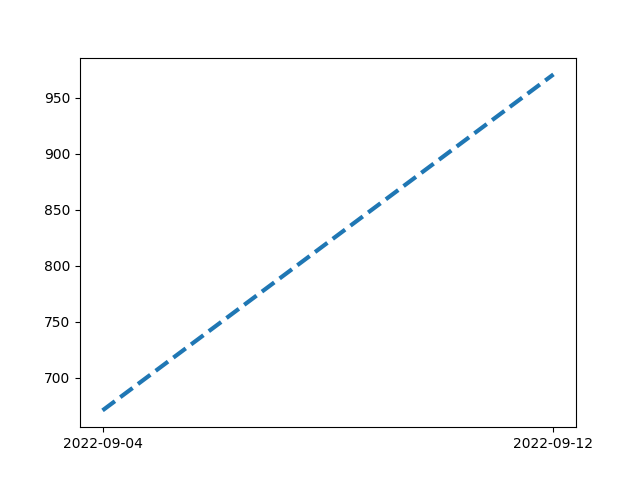
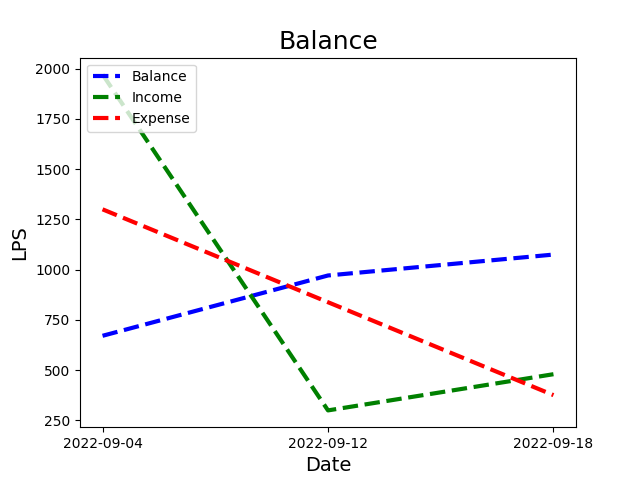
graph fixed and history updated

diff --git a/main.py b/main.py
@@ -1,4 +1,3 @@
-from cmath import exp
 from functions import Functions
 import discord
 import os
@@ -10,6 +9,8 @@ client = discord.Client(intents=discord.Intents.default())
 
 @client.event
 async def on_message(message):
+
+    user = message.author.id
 
     if message.author == client.user:
         return
@@ -28,7 +29,6 @@ async def on_message(message):
 
         msg = message.content.split(' ')
 
-        user = message.author.id
         income = msg[1]
 
         description = msg[2]
@@ -44,7 +44,6 @@ async def on_message(message):
         
         msg = message.content.split(' ')
 
-        user = message.author.id
         expense = msg[1]
         description = msg[2]
 
@@ -54,25 +53,20 @@ async def on_message(message):
 
         await message.channel.send(dbMessage)
 
+
     elif message.content.startswith('!balance'):
 
-        user = message.author.id
-
-        dbMessage = func.getBalance(user)
+        func.getBalance(user)
 
         await message.channel.send(dbMessage)
 
-    elif message.content.startswith('!graph'):
 
-        user = message.author.id
+    elif message.content.startswith('!graph'):
 
         dbMessage = func.getGraph(user)
 
         await message.channel.send(file=discord.File('plot.png'))
 
-    elif message.content.startswith('!help'):
-
-        await message.channel.send('!create - Create a new account\n!income [amount] [description] - Add income\n!expense [amount] [description] - Add expense\n!balance - Get your balance\n!history - Get your history\n!graph - Get your graph')
 
     elif message.content.startswith('!delete'):
 
@@ -83,5 +77,28 @@ async def on_message(message):
             await message.channel.send('Account deleted')
         else:
             await message.channel.send('Account not deleted')
+
+
+    elif message.content.startswith('!help'):
+
+        #Create an embed message
+
+        embed = discord.Embed(title="Help", description="List of commands", color=0x00ff00)
+
+        embed.add_field(name="!create", value="Create a new account", inline=False)
+
+        embed.add_field(name="!delete", value="Delete an account", inline=False)
+
+        embed.add_field(name="!income", value="Add an income", inline=False)
+
+        embed.add_field(name="!expense", value="Add an expense", inline=False)
+
+        embed.add_field(name="!balance", value="Get your balance", inline=False)
+
+        embed.add_field(name="!graph", value="Get a graph of your expenses", inline=False)
+
+        embed.add_field(name="!help", value="Get a list of commands", inline=False)
+
+        await message.channel.send(embed=embed)
 
 client.run(DISCORD_TOKEN)

diff --git a/database_conn.py b/database_conn.py
@@ -1,3 +1,4 @@
+from re import sub
 import pymysql
 
 class DataBase:
@@ -52,6 +53,9 @@ class DataBase:
         return
 
     def get_mensual_balance(self, username):
+
+        #Get the total balance
+
         sql = "SELECT `income`, `expense`, date FROM `%s`" % username
         self.cursor.execute(sql)
         result = self.cursor.fetchall()
@@ -76,11 +80,71 @@ class DataBase:
         incomeAp.append(subT)
         date.append(lastDate)
 
-        data = [incomeAp, date]
-        print(incomeAp)
-        print(date)
+        balance = [incomeAp, date]
 
-        return data
+        #Get the total income
+
+        sql = "SELECT `income`, date FROM `%s` WHERE expense = '0'" % username
+        self.cursor.execute(sql)
+        result = self.cursor.fetchall()
+
+        incomeT = []
+        dateIncome = []
+        subT = 0
+        lastDate = ""
+
+        for long in result:
+            dateSplit = str(long[1]).split(" ")
+
+            if lastDate == "":
+                lastDate = dateSplit[0]
+                subT += float(long[0])
+            elif lastDate == dateSplit[0]:
+                subT += float(long[0])
+            elif lastDate != dateSplit[0]:
+                incomeT.append(subT)
+                dateIncome.append(lastDate)
+                subT = 0
+                lastDate = dateSplit[0]
+                subT += float(long[0])
+
+        incomeT.append(subT)
+        dateIncome.append(lastDate)
+
+        income = [incomeT, dateIncome]
+        
+        #Get the total expense
+
+        sql = "SELECT `expense`, date FROM `%s` WHERE income = '0'" % username
+        self.cursor.execute(sql)
+        result = self.cursor.fetchall()
+
+        expenseT = []
+        dateExpense = []
+        subT = 0
+        lastDate = ""
+
+        for long in result:
+            dateSplit = str(long[1]).split(" ")
+
+            if lastDate == "":
+                lastDate = dateSplit[0]
+                subT += float(long[0])
+            elif lastDate == dateSplit[0]:
+                subT += float(long[0])
+            elif lastDate != dateSplit[0]:
+                expenseT.append(subT)
+                dateExpense.append(lastDate)
+                subT = 0
+                lastDate = dateSplit[0]
+                subT += float(long[0])
+
+        expenseT.append(subT)
+        dateExpense.append(lastDate)
+
+        expense = [expenseT, dateExpense]
+
+        return balance, income, expense
 
     def deleteUser(self, username):
         sql = "DROP TABLE `%s`" % username

diff --git a/graphics.py b/graphics.py
@@ -3,13 +3,40 @@ import matplotlib.pyplot as plt
 
 class Graphics:
 
-    def plot(self, data):
+    def plot(self, balance, income, expense):
         fig, ax = plt.subplots()
 
-        balance = data[0]
-        date = data[1]
+        balanceT = balance[0]
+        date = balance[1]
 
-        ax.plot(date, balance, color='blue',  linewidth=3, linestyle='--');  # Plot some data on the axes.
+        incomeT = income[0]
+        dateIncome = income[1]
+
+        expenseT = expense[0]
+        dateExpense = expense[1]
+
+        #ax.plot(date, balanceT, color='blue',  linewidth=3, linestyle='--');  # Plot some balance on the axes.
+
+        # A graph with three lines
+
+        ax.plot(date, balanceT, color='blue',  linewidth=3, linestyle='--');  # Plot some balance on the axes.
+        ax.plot(dateIncome, incomeT, color='green',  linewidth=3, linestyle='--');  # Plot some income on the axes.
+        ax.plot(dateExpense, expenseT, color='red',  linewidth=3, linestyle='--');  # Plot some expense on the axes.
+
+        # Set the x axis label of the current axis.
+        ax.set_xlabel('Date', fontsize=14)
+        
+        # Set the y axis label of the current axis.
+
+        ax.set_ylabel('LPS', fontsize=14)
+
+        # Set a title of the current axes.
+
+        ax.set_title('Balance', fontsize=18)
+
+        # show a legend on the plot
+
+        ax.legend(['Balance', 'Income', 'Expense'], loc='upper left')
 
         # Save the figure to a file
         fig.savefig('plot.png')

diff --git a/functions.py b/functions.py
@@ -93,15 +93,14 @@ class Functions:
 
     def getGraph(self, username):
         try:
-            data = self.db.get_mensual_balance(username)
-            image = self.graph.plot(data)
+            balance, income, expense = self.db.get_mensual_balance(username)
+            self.graph.plot(balance, income, expense)
 
         except Exception as e:
             print("Error getting graph:", e)
             self.db.rollback()
         finally:
             self.db.commit()
-            return image
         
         
 
